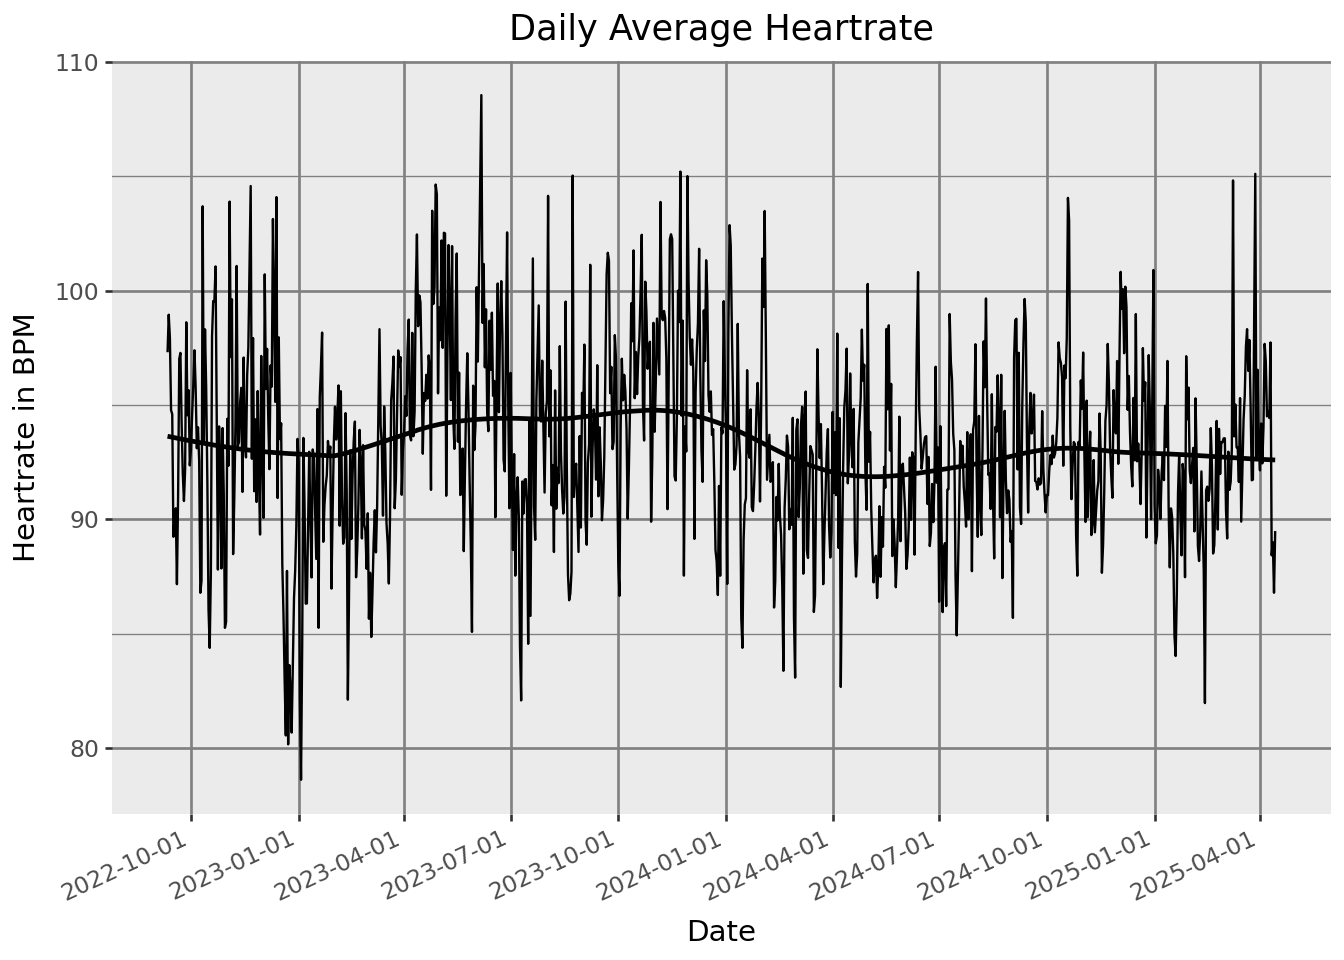
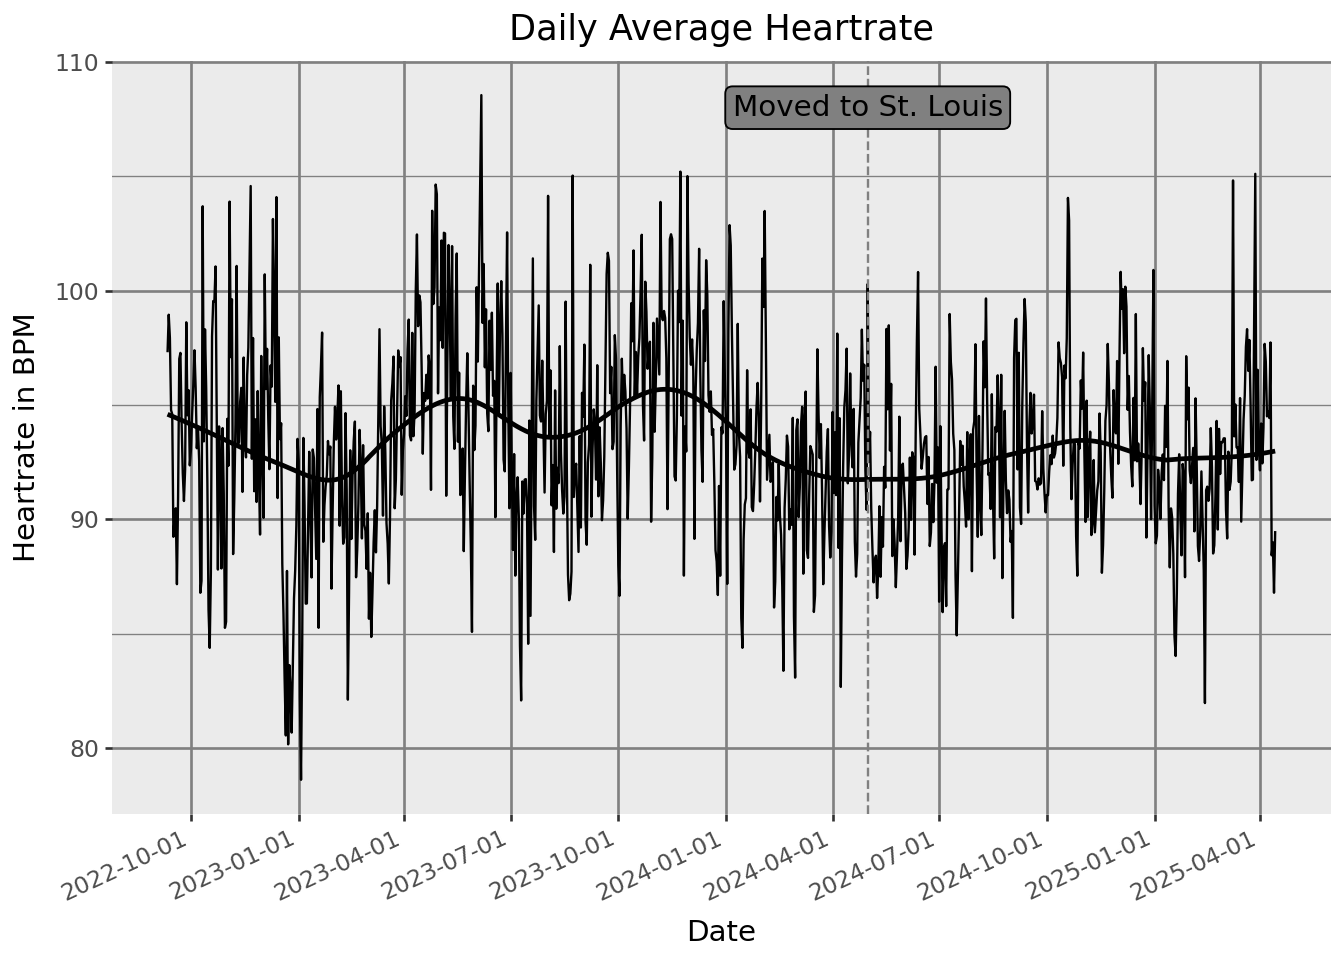
Add last month

diff --git a/Heartrate.html b/Heartrate.html
@@ -102,7 +102,7 @@ pre > code.sourceCode > span > a:first-child::before { text-decoration: underlin
 <p>Heartrate data is gathered roughly every 15 seconds by the FitBit Inspire 2, model FB418. It’s unknown whether this is a snapshot, or window average.</p>
 <section id="data" class="level2">
 <h2 class="anchored" data-anchor-id="data">Data</h2>
-<div id="4b1aec05" class="cell" data-execution_count="2">
+<div id="b14d6fe1" class="cell" data-execution_count="2">
 <details class="code-fold">
 <summary>Code</summary>
 <div class="sourceCode cell-code" id="cb1"><pre class="sourceCode python code-with-copy"><code class="sourceCode python"><span id="cb1-1"><a href="#cb1-1" aria-hidden="true" tabindex="-1"></a><span class="co"># Don't use scientific notation</span></span>
@@ -127,17 +127,7 @@ pre > code.sourceCode > span > a:first-child::before { text-decoration: underlin
 </div>
 <p>Data is held as a series of daily json files, which are loaded and concatenated into a Pandas dataframe. The dataframe consists of the datetime in ISO format and bpm, with this analysis consisting of 9962774 datapoints. Other fields are created for ease of parsing later.</p>
 <p>A sample of the data format is provided here:</p>
-<div id="76d7a637" class="cell" data-execution_count="3">
-<details class="code-fold">
-<summary>Code</summary>
-<div class="sourceCode cell-code" id="cb2"><pre class="sourceCode python code-with-copy"><code class="sourceCode python"><span id="cb2-1"><a href="#cb2-1" aria-hidden="true" tabindex="-1"></a><span class="bu">print</span>(df.tail(<span class="dv">3</span>))</span>
-<span id="cb2-2"><a href="#cb2-2" aria-hidden="true" tabindex="-1"></a><span class="co">#| include: false</span></span>
-<span id="cb2-3"><a href="#cb2-3" aria-hidden="true" tabindex="-1"></a><span class="co"># Prep daily data</span></span>
-<span id="cb2-4"><a href="#cb2-4" aria-hidden="true" tabindex="-1"></a>daily <span class="op">=</span> df.groupby([<span class="st">'year'</span>,<span class="st">'month'</span>,<span class="st">'day'</span>])[<span class="st">'bpm'</span>].mean().reset_index()</span>
-<span id="cb2-5"><a href="#cb2-5" aria-hidden="true" tabindex="-1"></a>daily[<span class="st">'date'</span>] <span class="op">=</span> daily[<span class="st">'year'</span>].astype(<span class="bu">str</span>) <span class="op">+</span> <span class="st">"-"</span> <span class="op">+</span>  daily[<span class="st">'month'</span>].astype(<span class="bu">str</span>) <span class="op">+</span>  <span class="st">"-"</span> <span class="op">+</span> daily[<span class="st">'day'</span>].astype(<span class="bu">str</span>)</span>
-<span id="cb2-6"><a href="#cb2-6" aria-hidden="true" tabindex="-1"></a>daily[<span class="st">'date'</span>] <span class="op">=</span> pd.to_datetime(daily[<span class="st">'date'</span>])</span>
-<span id="cb2-7"><a href="#cb2-7" aria-hidden="true" tabindex="-1"></a>daily <span class="op">=</span> daily[[<span class="st">'date'</span>,<span class="st">'bpm'</span>]]</span></code><button title="Copy to Clipboard" class="code-copy-button"><i class="bi"></i></button></pre></div>
-</details>
+<div id="29468a53" class="cell" data-execution_count="3">
 <div class="cell-output cell-output-stdout">
 <pre><code>                       dateTime year-month  year  month  day  bpm
 10680 2024-06-06 23:59:38-05:00    2024-06  2024      6    6   83
@@ -153,24 +143,34 @@ pre > code.sourceCode > span > a:first-child::before { text-decoration: underlin
 </section>
 <section id="plotting" class="level2">
 <h2 class="anchored" data-anchor-id="plotting">Plotting:</h2>
-<div id="5d6a9add" class="cell" data-execution_count="4">
+<div id="d11153f9" class="cell" data-execution_count="4">
 <details class="code-fold">
 <summary>Code</summary>
-<div class="sourceCode cell-code" id="cb4"><pre class="sourceCode python code-with-copy"><code class="sourceCode python"><span id="cb4-1"><a href="#cb4-1" aria-hidden="true" tabindex="-1"></a><span class="im">from</span> plotnine <span class="im">import</span> <span class="op">*</span></span>
-<span id="cb4-2"><a href="#cb4-2" aria-hidden="true" tabindex="-1"></a><span class="im">from</span> mizani.breaks <span class="im">import</span> date_breaks</span>
-<span id="cb4-3"><a href="#cb4-3" aria-hidden="true" tabindex="-1"></a>(</span>
-<span id="cb4-4"><a href="#cb4-4" aria-hidden="true" tabindex="-1"></a>    ggplot(daily, aes(x<span class="op">=</span><span class="st">"date"</span>, y<span class="op">=</span><span class="st">"bpm"</span>, group <span class="op">=</span> <span class="dv">1</span>))</span>
-<span id="cb4-5"><a href="#cb4-5" aria-hidden="true" tabindex="-1"></a>    <span class="op">+</span> geom_line()</span>
-<span id="cb4-6"><a href="#cb4-6" aria-hidden="true" tabindex="-1"></a>    <span class="op">+</span> scale_x_date(breaks<span class="op">=</span>date_breaks(width<span class="op">=</span><span class="st">"3 months"</span>),date_minor_breaks<span class="op">=</span><span class="st">"3 months"</span>)</span>
-<span id="cb4-7"><a href="#cb4-7" aria-hidden="true" tabindex="-1"></a>    <span class="op">+</span> geom_smooth(span<span class="op">=</span><span class="fl">.3</span>)</span>
-<span id="cb4-8"><a href="#cb4-8" aria-hidden="true" tabindex="-1"></a>    <span class="op">+</span> labs(x <span class="op">=</span> <span class="st">"Date"</span>, </span>
-<span id="cb4-9"><a href="#cb4-9" aria-hidden="true" tabindex="-1"></a>      y <span class="op">=</span> <span class="st">"Heartrate in BPM"</span>, </span>
-<span id="cb4-10"><a href="#cb4-10" aria-hidden="true" tabindex="-1"></a>      title <span class="op">=</span> <span class="st">"Daily Average Heartrate"</span>)</span>
-<span id="cb4-11"><a href="#cb4-11" aria-hidden="true" tabindex="-1"></a>    <span class="op">+</span> theme(</span>
-<span id="cb4-12"><a href="#cb4-12" aria-hidden="true" tabindex="-1"></a>            axis_text_x<span class="op">=</span>element_text(rotation<span class="op">=</span><span class="dv">25</span>, hjust<span class="op">=</span><span class="dv">1</span>),</span>
-<span id="cb4-13"><a href="#cb4-13" aria-hidden="true" tabindex="-1"></a>            panel_grid<span class="op">=</span>element_line(color<span class="op">=</span><span class="st">"grey"</span>),</span>
-<span id="cb4-14"><a href="#cb4-14" aria-hidden="true" tabindex="-1"></a>        )</span>
-<span id="cb4-15"><a href="#cb4-15" aria-hidden="true" tabindex="-1"></a>)</span></code><button title="Copy to Clipboard" class="code-copy-button"><i class="bi"></i></button></pre></div>
+<div class="sourceCode cell-code" id="cb3"><pre class="sourceCode python code-with-copy"><code class="sourceCode python"><span id="cb3-1"><a href="#cb3-1" aria-hidden="true" tabindex="-1"></a><span class="im">from</span> plotnine <span class="im">import</span> <span class="op">*</span></span>
+<span id="cb3-2"><a href="#cb3-2" aria-hidden="true" tabindex="-1"></a><span class="im">from</span> mizani.breaks <span class="im">import</span> date_breaks</span>
+<span id="cb3-3"><a href="#cb3-3" aria-hidden="true" tabindex="-1"></a></span>
+<span id="cb3-4"><a href="#cb3-4" aria-hidden="true" tabindex="-1"></a><span class="co"># Prep daily df</span></span>
+<span id="cb3-5"><a href="#cb3-5" aria-hidden="true" tabindex="-1"></a>daily <span class="op">=</span> df.groupby([<span class="st">'year'</span>,<span class="st">'month'</span>,<span class="st">'day'</span>])[<span class="st">'bpm'</span>].mean().reset_index()</span>
+<span id="cb3-6"><a href="#cb3-6" aria-hidden="true" tabindex="-1"></a>daily[<span class="st">'date'</span>] <span class="op">=</span> daily[<span class="st">'year'</span>].astype(<span class="bu">str</span>) <span class="op">+</span> <span class="st">"-"</span> <span class="op">+</span>  daily[<span class="st">'month'</span>].astype(<span class="bu">str</span>) <span class="op">+</span>  <span class="st">"-"</span> <span class="op">+</span> daily[<span class="st">'day'</span>].astype(<span class="bu">str</span>)</span>
+<span id="cb3-7"><a href="#cb3-7" aria-hidden="true" tabindex="-1"></a>daily[<span class="st">'date'</span>] <span class="op">=</span> pd.to_datetime(daily[<span class="st">'date'</span>])</span>
+<span id="cb3-8"><a href="#cb3-8" aria-hidden="true" tabindex="-1"></a>daily <span class="op">=</span> daily[[<span class="st">'date'</span>,<span class="st">'bpm'</span>]]</span>
+<span id="cb3-9"><a href="#cb3-9" aria-hidden="true" tabindex="-1"></a></span>
+<span id="cb3-10"><a href="#cb3-10" aria-hidden="true" tabindex="-1"></a><span class="co"># Plot</span></span>
+<span id="cb3-11"><a href="#cb3-11" aria-hidden="true" tabindex="-1"></a>(</span>
+<span id="cb3-12"><a href="#cb3-12" aria-hidden="true" tabindex="-1"></a>    ggplot(daily, aes(x<span class="op">=</span><span class="st">"date"</span>, y<span class="op">=</span><span class="st">"bpm"</span>, group <span class="op">=</span> <span class="dv">1</span>))</span>
+<span id="cb3-13"><a href="#cb3-13" aria-hidden="true" tabindex="-1"></a>    <span class="op">+</span> geom_line()</span>
+<span id="cb3-14"><a href="#cb3-14" aria-hidden="true" tabindex="-1"></a>    <span class="op">+</span> scale_x_date(breaks<span class="op">=</span>date_breaks(width<span class="op">=</span><span class="st">"3 months"</span>),date_minor_breaks<span class="op">=</span><span class="st">"3 months"</span>)</span>
+<span id="cb3-15"><a href="#cb3-15" aria-hidden="true" tabindex="-1"></a>    <span class="op">+</span> geom_smooth(span<span class="op">=</span><span class="fl">.2</span>)</span>
+<span id="cb3-16"><a href="#cb3-16" aria-hidden="true" tabindex="-1"></a>    <span class="op">+</span> labs(x <span class="op">=</span> <span class="st">"Date"</span>, </span>
+<span id="cb3-17"><a href="#cb3-17" aria-hidden="true" tabindex="-1"></a>      y <span class="op">=</span> <span class="st">"Heartrate in BPM"</span>, </span>
+<span id="cb3-18"><a href="#cb3-18" aria-hidden="true" tabindex="-1"></a>      title <span class="op">=</span> <span class="st">"Daily Average Heartrate"</span>)</span>
+<span id="cb3-19"><a href="#cb3-19" aria-hidden="true" tabindex="-1"></a>        <span class="op">+</span> theme(</span>
+<span id="cb3-20"><a href="#cb3-20" aria-hidden="true" tabindex="-1"></a>            axis_text_x<span class="op">=</span>element_text(rotation<span class="op">=</span><span class="dv">25</span>, hjust<span class="op">=</span><span class="dv">1</span>),</span>
+<span id="cb3-21"><a href="#cb3-21" aria-hidden="true" tabindex="-1"></a>            panel_grid<span class="op">=</span>element_line(color<span class="op">=</span><span class="st">"grey"</span>)</span>
+<span id="cb3-22"><a href="#cb3-22" aria-hidden="true" tabindex="-1"></a>         )    </span>
+<span id="cb3-23"><a href="#cb3-23" aria-hidden="true" tabindex="-1"></a>        <span class="op">+</span> geom_vline(xintercept<span class="op">=</span>[dt.date(<span class="dv">2024</span>,<span class="dv">5</span>,<span class="dv">1</span>)], linetype<span class="op">=</span><span class="st">"dashed"</span>, color<span class="op">=</span><span class="st">"grey"</span>)</span>
+<span id="cb3-24"><a href="#cb3-24" aria-hidden="true" tabindex="-1"></a>        <span class="op">+</span> annotate(geom<span class="op">=</span><span class="st">"label"</span>,fill<span class="op">=</span><span class="st">"grey"</span>,color<span class="op">=</span><span class="st">"black"</span>,label<span class="op">=</span><span class="st">"Moved to St. Louis"</span>, x<span class="op">=</span>dt.date(<span class="dv">2024</span>,<span class="dv">5</span>,<span class="dv">1</span>), y<span class="op">=</span><span class="dv">108</span>)</span>
+<span id="cb3-25"><a href="#cb3-25" aria-hidden="true" tabindex="-1"></a>)</span></code><button title="Copy to Clipboard" class="code-copy-button"><i class="bi"></i></button></pre></div>
 </details>
 <div class="cell-output cell-output-display">
 <div>
@@ -180,66 +180,68 @@ pre > code.sourceCode > span > a:first-child::before { text-decoration: underlin
 </div>
 </div>
 </div>
-<div id="62eeceee" class="cell" data-execution_count="5">
+<div id="b85cf4fc" class="cell" data-execution_count="5">
 <details class="code-fold">
 <summary>Code</summary>
-<div class="sourceCode cell-code" id="cb5"><pre class="sourceCode python code-with-copy"><code class="sourceCode python"><span id="cb5-1"><a href="#cb5-1" aria-hidden="true" tabindex="-1"></a><span class="im">import</span> pandas <span class="im">as</span> pd</span>
-<span id="cb5-2"><a href="#cb5-2" aria-hidden="true" tabindex="-1"></a></span>
-<span id="cb5-3"><a href="#cb5-3" aria-hidden="true" tabindex="-1"></a>df[<span class="st">'hour'</span>] <span class="op">=</span> df[<span class="st">'dateTime'</span>].dt.hour</span>
-<span id="cb5-4"><a href="#cb5-4" aria-hidden="true" tabindex="-1"></a></span>
-<span id="cb5-5"><a href="#cb5-5" aria-hidden="true" tabindex="-1"></a>hourly <span class="op">=</span> df.loc[df[<span class="st">'year'</span>] <span class="op">==</span> <span class="dv">2024</span>].groupby([<span class="st">'hour'</span>], as_index<span class="op">=</span> <span class="va">False</span>)[<span class="st">'bpm'</span>].mean()</span>
-<span id="cb5-6"><a href="#cb5-6" aria-hidden="true" tabindex="-1"></a><span class="bu">print</span>(hourly.head())</span>
-<span id="cb5-7"><a href="#cb5-7" aria-hidden="true" tabindex="-1"></a></span>
-<span id="cb5-8"><a href="#cb5-8" aria-hidden="true" tabindex="-1"></a>(</span>
-<span id="cb5-9"><a href="#cb5-9" aria-hidden="true" tabindex="-1"></a>    ggplot(hourly[[<span class="st">'hour'</span>,<span class="st">'bpm'</span>]], aes(x<span class="op">=</span><span class="st">"hour"</span>, y<span class="op">=</span><span class="st">"bpm"</span>, group <span class="op">=</span> <span class="dv">1</span>))</span>
-<span id="cb5-10"><a href="#cb5-10" aria-hidden="true" tabindex="-1"></a>    <span class="op">+</span> geom_line()</span>
-<span id="cb5-11"><a href="#cb5-11" aria-hidden="true" tabindex="-1"></a>        <span class="op">+</span> scale_x_continuous(limits<span class="op">=</span>(<span class="dv">0</span>,<span class="dv">24</span>),breaks<span class="op">=</span><span class="bu">range</span>(<span class="dv">0</span>, <span class="dv">24</span>, <span class="dv">1</span>))</span>
-<span id="cb5-12"><a href="#cb5-12" aria-hidden="true" tabindex="-1"></a>    <span class="op">+</span> labs(x <span class="op">=</span> <span class="st">"Hour"</span>, </span>
-<span id="cb5-13"><a href="#cb5-13" aria-hidden="true" tabindex="-1"></a>      y <span class="op">=</span> <span class="st">"Heartrate in BPM"</span>, </span>
-<span id="cb5-14"><a href="#cb5-14" aria-hidden="true" tabindex="-1"></a>      title <span class="op">=</span> <span class="st">"Hourly Average Heartrate over 2024"</span>)</span>
-<span id="cb5-15"><a href="#cb5-15" aria-hidden="true" tabindex="-1"></a>        <span class="op">+</span> theme_538()</span>
-<span id="cb5-16"><a href="#cb5-16" aria-hidden="true" tabindex="-1"></a>)</span></code><button title="Copy to Clipboard" class="code-copy-button"><i class="bi"></i></button></pre></div>
+<div class="sourceCode cell-code" id="cb4"><pre class="sourceCode python code-with-copy"><code class="sourceCode python"><span id="cb4-1"><a href="#cb4-1" aria-hidden="true" tabindex="-1"></a><span class="im">import</span> pandas <span class="im">as</span> pd</span>
+<span id="cb4-2"><a href="#cb4-2" aria-hidden="true" tabindex="-1"></a></span>
+<span id="cb4-3"><a href="#cb4-3" aria-hidden="true" tabindex="-1"></a>df[<span class="st">'hour'</span>] <span class="op">=</span> df[<span class="st">'dateTime'</span>].dt.hour</span>
+<span id="cb4-4"><a href="#cb4-4" aria-hidden="true" tabindex="-1"></a></span>
+<span id="cb4-5"><a href="#cb4-5" aria-hidden="true" tabindex="-1"></a>hourly <span class="op">=</span> df.loc[df[<span class="st">'year'</span>] <span class="op">==</span> <span class="dv">2024</span>].groupby([<span class="st">'hour'</span>], as_index<span class="op">=</span> <span class="va">False</span>)[<span class="st">'bpm'</span>].mean()</span>
+<span id="cb4-6"><a href="#cb4-6" aria-hidden="true" tabindex="-1"></a></span>
+<span id="cb4-7"><a href="#cb4-7" aria-hidden="true" tabindex="-1"></a>(</span>
+<span id="cb4-8"><a href="#cb4-8" aria-hidden="true" tabindex="-1"></a>    ggplot(hourly[[<span class="st">'hour'</span>,<span class="st">'bpm'</span>]], aes(x<span class="op">=</span><span class="st">"hour"</span>, y<span class="op">=</span><span class="st">"bpm"</span>, group <span class="op">=</span> <span class="dv">1</span>))</span>
+<span id="cb4-9"><a href="#cb4-9" aria-hidden="true" tabindex="-1"></a>    <span class="op">+</span> geom_line()</span>
+<span id="cb4-10"><a href="#cb4-10" aria-hidden="true" tabindex="-1"></a>        <span class="op">+</span> scale_x_continuous(limits<span class="op">=</span>(<span class="dv">0</span>,<span class="dv">24</span>),breaks<span class="op">=</span><span class="bu">range</span>(<span class="dv">0</span>, <span class="dv">24</span>, <span class="dv">1</span>))</span>
+<span id="cb4-11"><a href="#cb4-11" aria-hidden="true" tabindex="-1"></a>    <span class="op">+</span> labs(x <span class="op">=</span> <span class="st">"Hour"</span>, </span>
+<span id="cb4-12"><a href="#cb4-12" aria-hidden="true" tabindex="-1"></a>      y <span class="op">=</span> <span class="st">"Heartrate in BPM"</span>, </span>
+<span id="cb4-13"><a href="#cb4-13" aria-hidden="true" tabindex="-1"></a>      title <span class="op">=</span> <span class="st">"Hourly Average Heartrate over 2024"</span>)</span>
+<span id="cb4-14"><a href="#cb4-14" aria-hidden="true" tabindex="-1"></a>        <span class="op">+</span> theme_538()</span>
+<span id="cb4-15"><a href="#cb4-15" aria-hidden="true" tabindex="-1"></a>)</span></code><button title="Copy to Clipboard" class="code-copy-button"><i class="bi"></i></button></pre></div>
 </details>
-<div class="cell-output cell-output-stdout">
-<pre><code>   hour  bpm
-0     0   87
-1     1   83
-2     2   83
-3     3   82
-4     4   82</code></pre>
-</div>
 <div class="cell-output cell-output-display">
 <div>
 <figure class="figure">
-<p><img src="Heartrate_files/figure-html/cell-6-output-2.png" width="672" height="480" class="figure-img"></p>
+<p><img src="Heartrate_files/figure-html/cell-6-output-1.png" width="672" height="480" class="figure-img"></p>
 </figure>
 </div>
 </div>
 </div>
-<div id="83924199" class="cell" data-execution_count="6">
+</section>
+<section id="last-month-data" class="level2">
+<h2 class="anchored" data-anchor-id="last-month-data">Last month data</h2>
+<div id="fba879b2" class="cell" data-execution_count="6">
 <details class="code-fold">
 <summary>Code</summary>
-<div class="sourceCode cell-code" id="cb7"><pre class="sourceCode python code-with-copy"><code class="sourceCode python"><span id="cb7-1"><a href="#cb7-1" aria-hidden="true" tabindex="-1"></a>this_year <span class="op">=</span> df.loc[df[<span class="st">'year'</span>] <span class="op">==</span> <span class="dv">2024</span>]</span>
-<span id="cb7-2"><a href="#cb7-2" aria-hidden="true" tabindex="-1"></a><span class="bu">print</span>(this_year.head())</span>
-<span id="cb7-3"><a href="#cb7-3" aria-hidden="true" tabindex="-1"></a></span>
-<span id="cb7-4"><a href="#cb7-4" aria-hidden="true" tabindex="-1"></a></span>
-<span id="cb7-5"><a href="#cb7-5" aria-hidden="true" tabindex="-1"></a><span class="co"># (</span></span>
-<span id="cb7-6"><a href="#cb7-6" aria-hidden="true" tabindex="-1"></a><span class="co">#     ggplot(hourly[['hour','bpm']], aes(x="hour", y="bpm", group = 1))</span></span>
-<span id="cb7-7"><a href="#cb7-7" aria-hidden="true" tabindex="-1"></a><span class="co">#     + geom_line()</span></span>
-<span id="cb7-8"><a href="#cb7-8" aria-hidden="true" tabindex="-1"></a><span class="co">#       + scale_x_continuous(limits=(0,24),breaks=range(0, 24, 1))</span></span>
-<span id="cb7-9"><a href="#cb7-9" aria-hidden="true" tabindex="-1"></a><span class="co">#     + labs(x = "Hour", </span></span>
-<span id="cb7-10"><a href="#cb7-10" aria-hidden="true" tabindex="-1"></a><span class="co">#       y = "Heartrate in BPM", </span></span>
-<span id="cb7-11"><a href="#cb7-11" aria-hidden="true" tabindex="-1"></a><span class="co">#       title = "Hourly Average Heartrate over 2024")</span></span>
-<span id="cb7-12"><a href="#cb7-12" aria-hidden="true" tabindex="-1"></a><span class="co">#       + theme_538()</span></span>
-<span id="cb7-13"><a href="#cb7-13" aria-hidden="true" tabindex="-1"></a><span class="co"># )</span></span></code><button title="Copy to Clipboard" class="code-copy-button"><i class="bi"></i></button></pre></div>
+<div class="sourceCode cell-code" id="cb5"><pre class="sourceCode python code-with-copy"><code class="sourceCode python"><span id="cb5-1"><a href="#cb5-1" aria-hidden="true" tabindex="-1"></a>last_month <span class="op">=</span> df.loc[df[<span class="st">'year-month'</span>] <span class="op">==</span> <span class="st">"2024-03"</span>].groupby([<span class="st">'hour'</span>], as_index<span class="op">=</span> <span class="va">False</span>)[<span class="st">'bpm'</span>].mean()</span>
+<span id="cb5-2"><a href="#cb5-2" aria-hidden="true" tabindex="-1"></a></span>
+<span id="cb5-3"><a href="#cb5-3" aria-hidden="true" tabindex="-1"></a>(</span>
+<span id="cb5-4"><a href="#cb5-4" aria-hidden="true" tabindex="-1"></a>    ggplot(last_month[[<span class="st">'hour'</span>,<span class="st">'bpm'</span>]], aes(x<span class="op">=</span><span class="st">"hour"</span>, y<span class="op">=</span><span class="st">"bpm"</span>, group <span class="op">=</span> <span class="dv">1</span>))</span>
+<span id="cb5-5"><a href="#cb5-5" aria-hidden="true" tabindex="-1"></a>    <span class="op">+</span> geom_line()</span>
+<span id="cb5-6"><a href="#cb5-6" aria-hidden="true" tabindex="-1"></a>        <span class="op">+</span> scale_x_continuous(limits<span class="op">=</span>(<span class="dv">0</span>,<span class="dv">24</span>),breaks<span class="op">=</span><span class="bu">range</span>(<span class="dv">0</span>, <span class="dv">24</span>, <span class="dv">1</span>))</span>
+<span id="cb5-7"><a href="#cb5-7" aria-hidden="true" tabindex="-1"></a>    <span class="op">+</span> labs(x <span class="op">=</span> <span class="st">"Hour"</span>, </span>
+<span id="cb5-8"><a href="#cb5-8" aria-hidden="true" tabindex="-1"></a>      y <span class="op">=</span> <span class="st">"Heartrate in BPM"</span>, </span>
+<span id="cb5-9"><a href="#cb5-9" aria-hidden="true" tabindex="-1"></a>      title <span class="op">=</span> <span class="st">"Hourly Average Heartrate March 2024"</span>)</span>
+<span id="cb5-10"><a href="#cb5-10" aria-hidden="true" tabindex="-1"></a>        <span class="op">+</span> theme_538()</span>
+<span id="cb5-11"><a href="#cb5-11" aria-hidden="true" tabindex="-1"></a>)</span>
+<span id="cb5-12"><a href="#cb5-12" aria-hidden="true" tabindex="-1"></a></span>
+<span id="cb5-13"><a href="#cb5-13" aria-hidden="true" tabindex="-1"></a></span>
+<span id="cb5-14"><a href="#cb5-14" aria-hidden="true" tabindex="-1"></a><span class="co"># (</span></span>
+<span id="cb5-15"><a href="#cb5-15" aria-hidden="true" tabindex="-1"></a><span class="co">#     ggplot(hourly[['hour','bpm']], aes(x="hour", y="bpm", group = 1))</span></span>
+<span id="cb5-16"><a href="#cb5-16" aria-hidden="true" tabindex="-1"></a><span class="co">#     + geom_line()</span></span>
+<span id="cb5-17"><a href="#cb5-17" aria-hidden="true" tabindex="-1"></a><span class="co">#       + scale_x_continuous(limits=(0,24),breaks=range(0, 24, 1))</span></span>
+<span id="cb5-18"><a href="#cb5-18" aria-hidden="true" tabindex="-1"></a><span class="co">#     + labs(x = "Hour", </span></span>
+<span id="cb5-19"><a href="#cb5-19" aria-hidden="true" tabindex="-1"></a><span class="co">#       y = "Heartrate in BPM", </span></span>
+<span id="cb5-20"><a href="#cb5-20" aria-hidden="true" tabindex="-1"></a><span class="co">#       title = "Hourly Average Heartrate over 2024")</span></span>
+<span id="cb5-21"><a href="#cb5-21" aria-hidden="true" tabindex="-1"></a><span class="co">#       + theme_538()</span></span>
+<span id="cb5-22"><a href="#cb5-22" aria-hidden="true" tabindex="-1"></a><span class="co"># )</span></span></code><button title="Copy to Clipboard" class="code-copy-button"><i class="bi"></i></button></pre></div>
 </details>
-<div class="cell-output cell-output-stdout">
-<pre><code>                   dateTime year-month  year  month  day  bpm  hour
-0 2024-10-02 00:00:00-05:00    2024-10  2024     10    2   88     0
-1 2024-10-02 00:00:05-05:00    2024-10  2024     10    2   87     0
-2 2024-10-02 00:00:20-05:00    2024-10  2024     10    2   87     0
-3 2024-10-02 00:00:30-05:00    2024-10  2024     10    2   87     0
-4 2024-10-02 00:00:35-05:00    2024-10  2024     10    2   88     0</code></pre>
+<div class="cell-output cell-output-display">
+<div>
+<figure class="figure">
+<p><img src="Heartrate_files/figure-html/cell-7-output-1.png" width="672" height="480" class="figure-img"></p>
+</figure>
+</div>
 </div>
 </div>
 </section>
